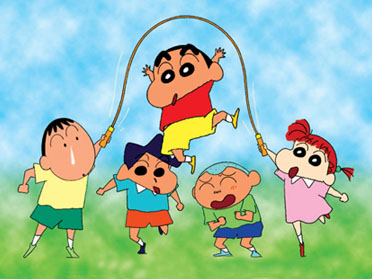
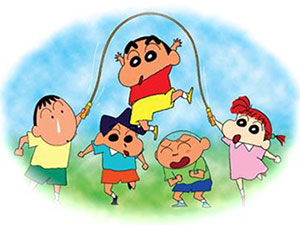
update picture

diff --git a/www/index.html b/www/index.html
@@ -248,6 +248,8 @@ function onLoad() {
 	<td colspan=1 width='25%'></td>
 	</tr>
 	
+	<tr><td colspan=4><img class='splash' src='img/share.jpg'/></td></tr>
+	
 	<tr><td colspan=4>
 	<textarea id='sharemsg' rows=8 cols=30>#天天跳绳#，再创新纪录，我是 #运动达人#！已经累计跳跃 123456 次，消耗脂肪 1234 克。最高连续跳跃 500下，最快速度 120次／分钟。http://go.to/jumprope</textarea>
 	</td></tr>
